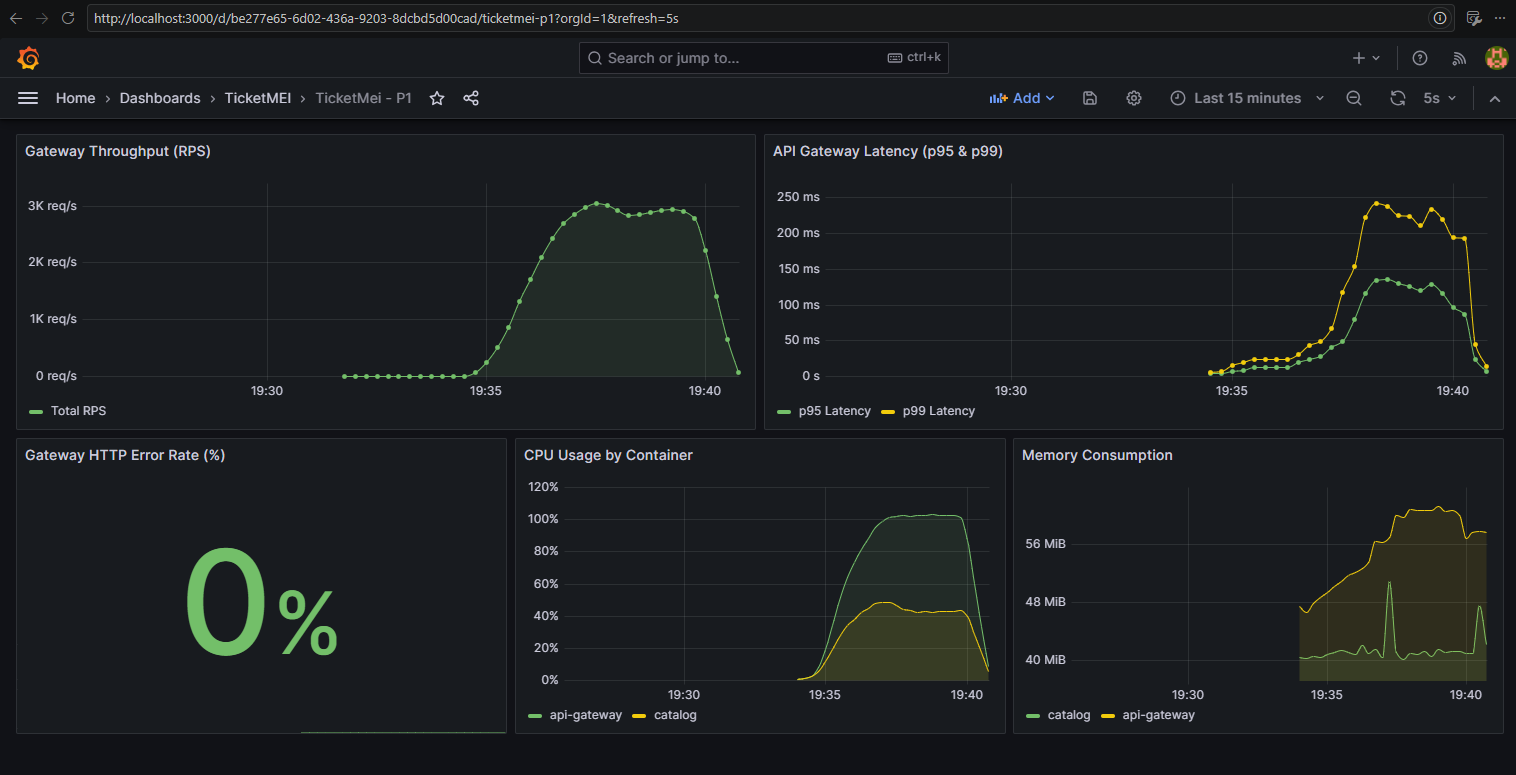
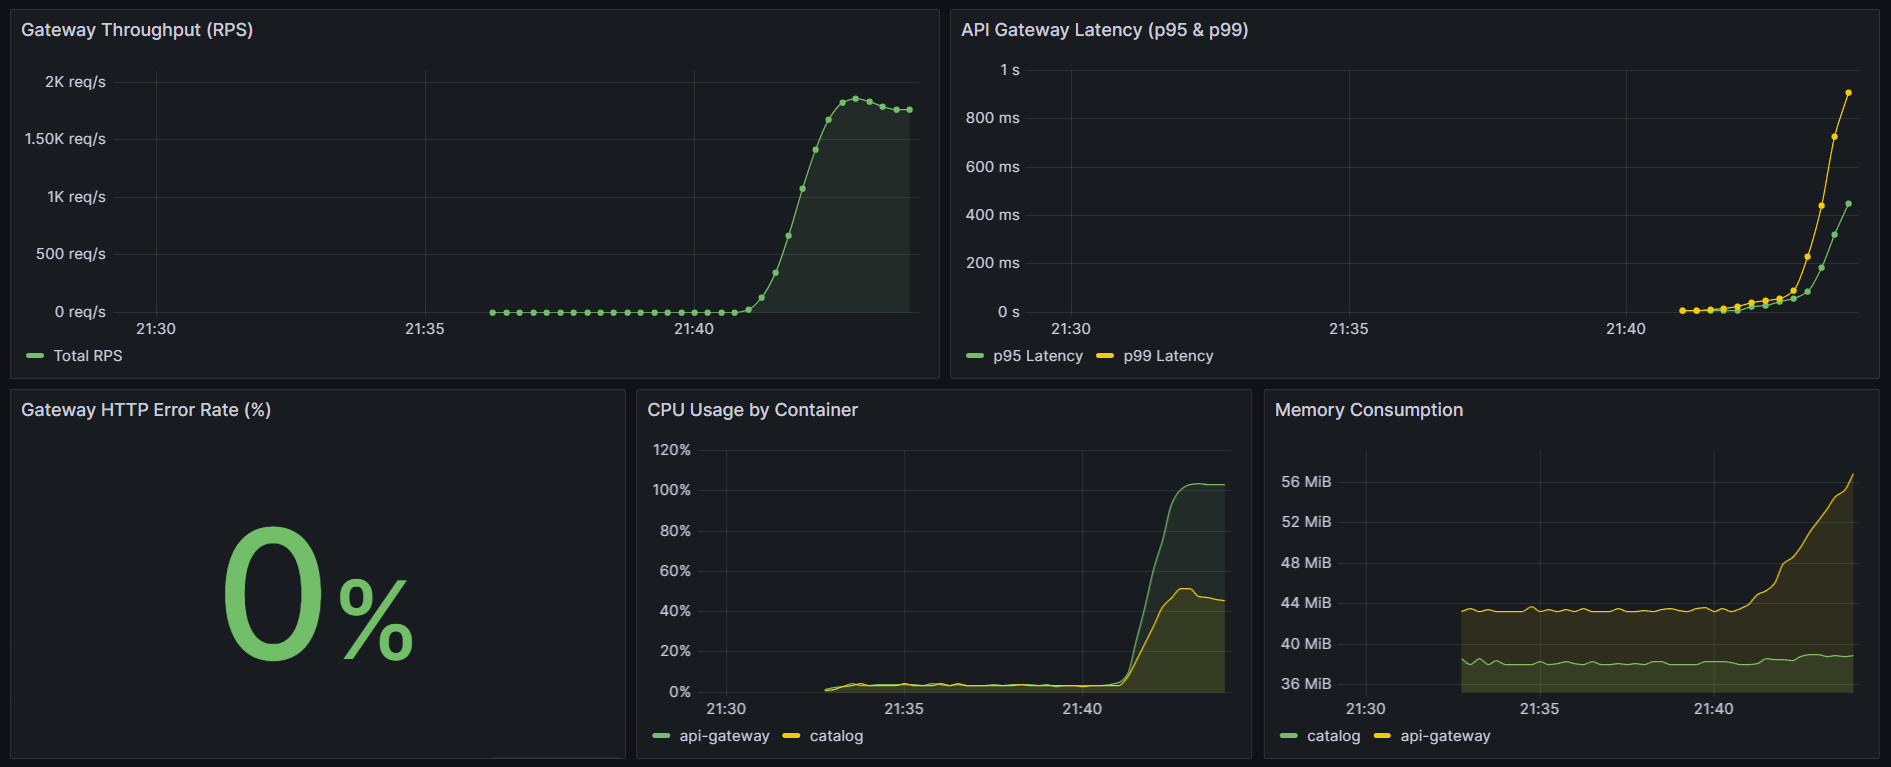
Verificações de Build Realizadas

diff --git a/README.md b/README.md
@@ -216,12 +216,12 @@ Thresholds: p95 da latência < 200 ms e menos de 1% de pedidos falhados.
 
 | Métrica | Resultado |
 |---------|-----------|
-| Pedidos totais | _preencher_ |
-| Débito médio | _preencher_ pedidos/s |
-| Latência p90 | _preencher_ ms |
-| Latência p95 | _preencher_ ms (threshold: < 200 ms) |
-| Pedidos falhados | _preencher_ % (threshold: < 1%) |
-| Máquina | _preencher (ex.: portátil, CPU, nº de cores atribuídos ao Docker)_ |
+| Pedidos totais | 512747 |
+| Débito médio | 1553.59 pedidos/s |
+| Latência p90 | 233.61 ms |
+| Latência p95 | 526.3 ms (threshold: < 200 ms) |
+| Pedidos falhados | 0.00 % (threshold: < 1%) |
+| Máquina | Laptop Ryzen 7 7735HS, 16 Cores|
 
 ![Resumo do k6](docs/img/k6-resumo.png)
 
